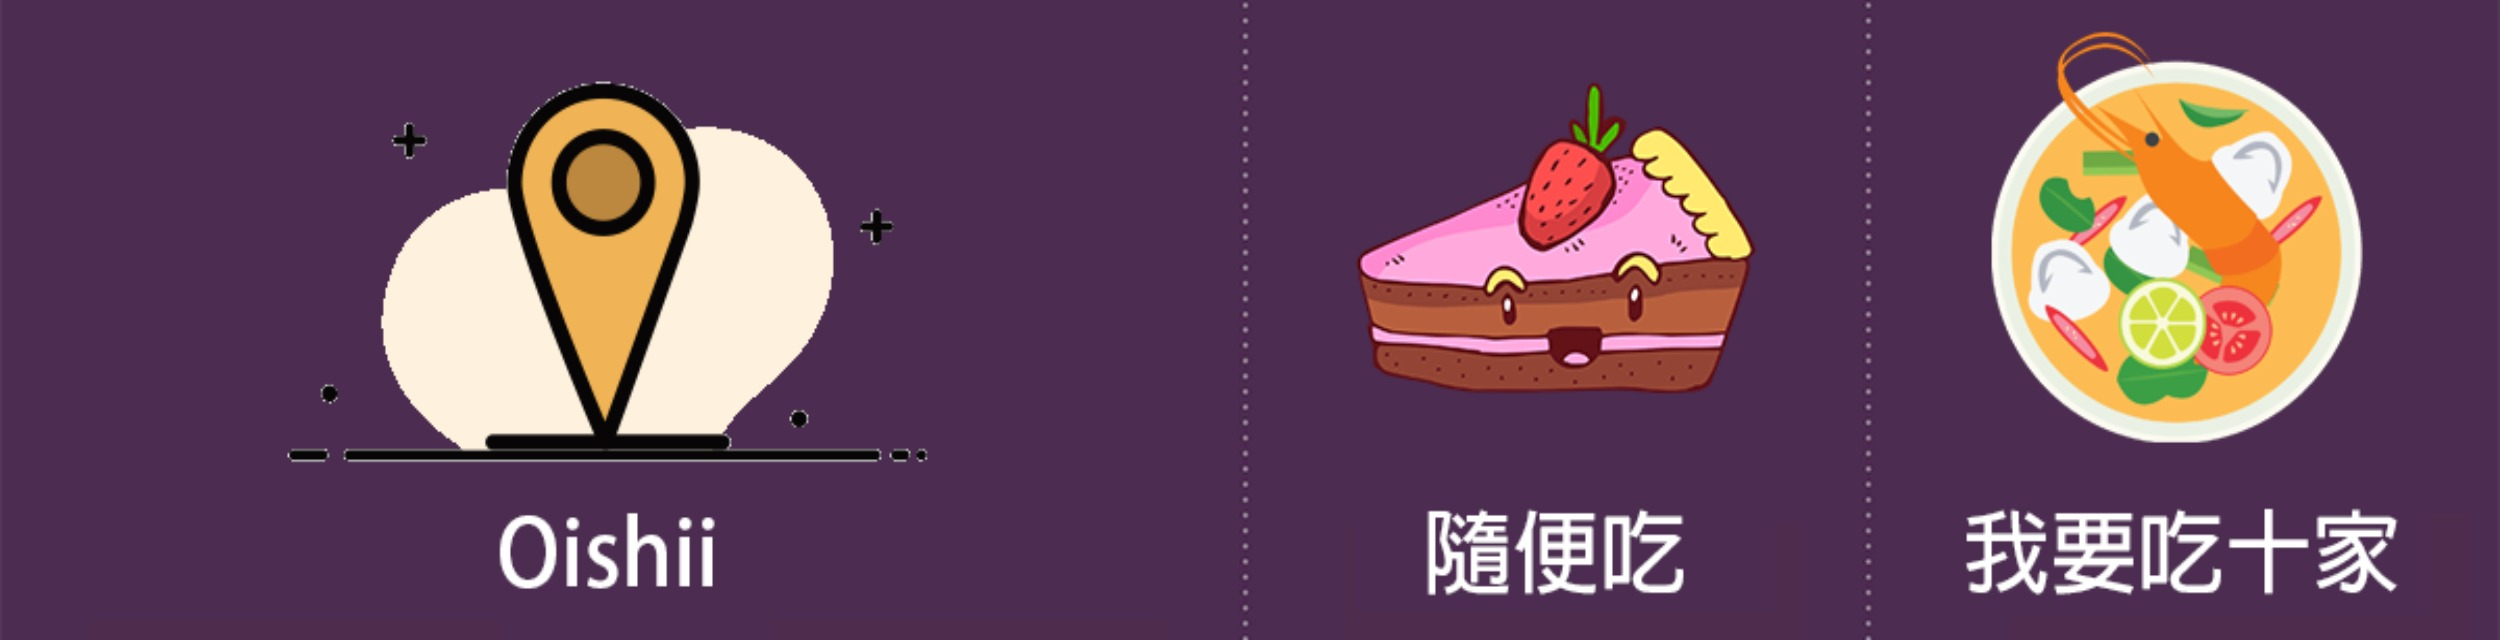
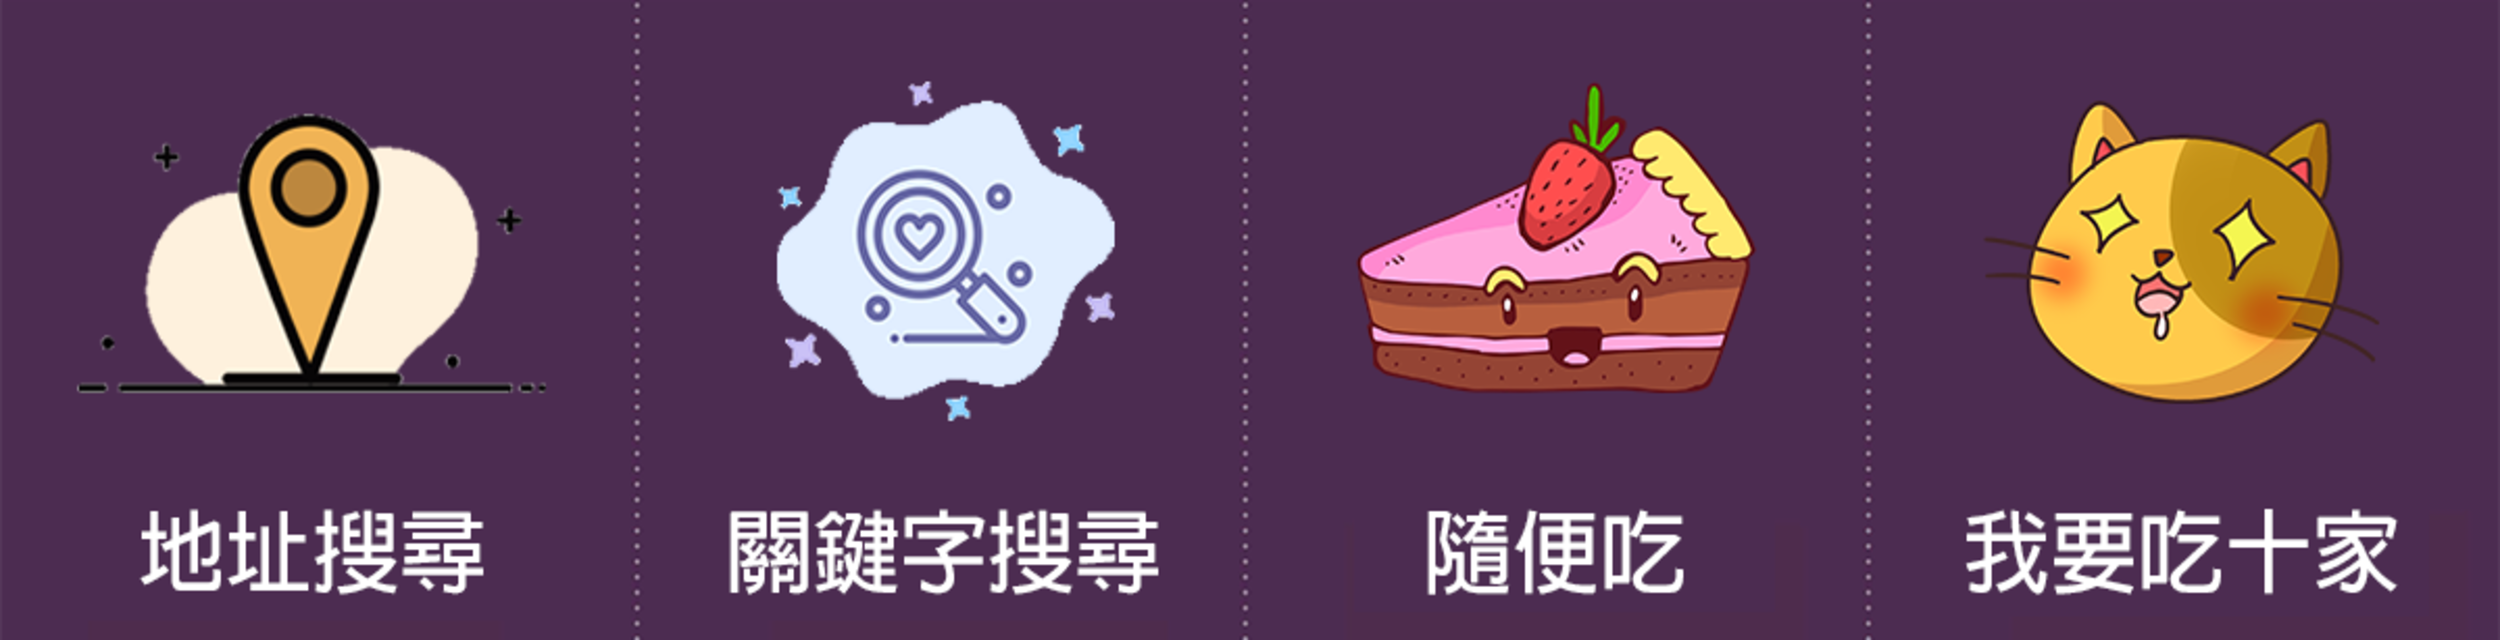
Refactor: change menu picture

diff --git a/lineBotRichMenu.py b/lineBotRichMenu.py
@@ -20,8 +20,12 @@ body = {
     'chatBarText': 'menu',                     # 選單在 LINE 顯示的標題
     'areas':[                                  # 選單內容
         {
-          'bounds': {'x': 0, 'y': 0, 'width': 1250, 'height': 640},           # 選單位置與大小
+          'bounds': {'x': 0, 'y': 0, 'width': 625, 'height': 640},           # 選單位置與大小
           'action': {'type': 'uri', 'uri': 'https://line.me/R/nv/location/'}  # 點擊後開啟地圖定位，傳送位置資訊
+        },
+        {
+          'bounds': {'x': 626, 'y': 0, 'width': 625, 'height': 640},
+          'action': {'type': 'message', 'text': '搜尋關鍵字'} 
         },
         {
           'bounds': {'x': 1251, 'y': 0, 'width':625, 'height': 640},     # 選單位置與大小
@@ -69,7 +73,7 @@ if __name__ == "__main__":
     menu = LineBotRichMenu()
 
     richMenuId = menu.create_rich_menu()
-    # richMenuId = "richmenu-b51f46951ae57021b45e64b8a6f59128"
     menu.set_picture_of_rich_menu(richMenuId)
     menu.activate_rich_menu(richMenuId)
+    # richMenuId = "richmenu-fdceb72059bc1f37e03e49c46b22bd1a"
     # menu.delete_rich_menu(richMenuId)

diff --git a/oishii666.py b/oishii666.py
@@ -183,7 +183,7 @@ def handle_text_message(event):
             )
 
     elif event.message.text == "搜尋關鍵字":
-        text = "請依照以下格式輸入關鍵字：\n搜尋「關鍵字」\n例如：搜尋 南港美食"
+        text = "請依照以下格式輸入關鍵字：\n搜尋「關鍵字」\n例如：搜尋 北科美食"
          
         message = messageBuilder.buildTextSendMessage(text)
 
